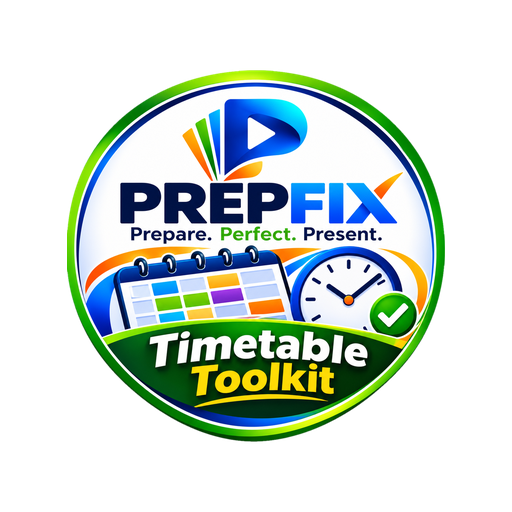
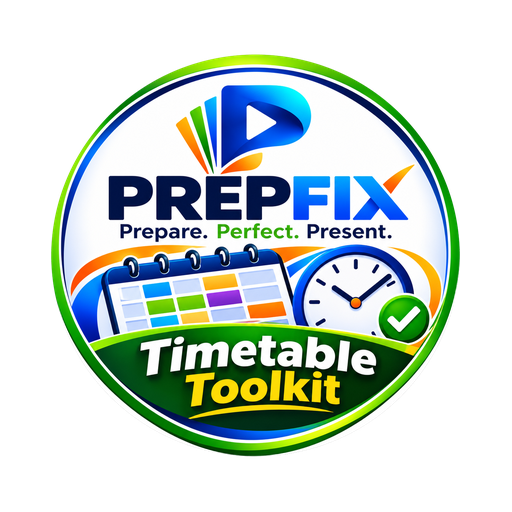
Update teachers' app

Changed region(s): [[0.0938, 0.0938, 0.9062, 0.9062]]

diff --git a/app.js b/app.js
@@ -4,7 +4,7 @@
 
   const CFG = self.IRERI_CONFIG || {};
   // Built in. The same on every school's app and not taken from any setting.
-  const LOCKED_BRAND = 'DESIGNED BY CYRUS IRERI';   // (older copies said: CREATED BY CYRUS IRERI)
+  const LOCKED_BRAND = 'DEVELOPED BY CYRUS IRERI';   // (older copies said: DESIGNED BY CYRUS IRERI / CREATED BY CYRUS IRERI - kept here so older school copies still recognise this app)
   const LOCKED_CONTACT = '0720872582';
   const BRAND_LINE = LOCKED_BRAND + ' ' + LOCKED_CONTACT;
   // Watermark over every timetable on screen and on every saved image. Built in, cannot be switched off.
@@ -27,7 +27,7 @@
   })();
   (function addBrandBar() {                      // frozen footer, always visible
     const add = () => { if (document.getElementById('brandbar')) return; const f = document.createElement('div'); f.id = 'brandbar';
-      f.innerHTML = `<span>${LOCKED_BRAND}</span><button type="button" data-act="contact" aria-label="Contact Cyrus Ireri"><svg viewBox="0 0 24 24" aria-hidden="true"><path d="M6.6 10.8a15.1 15.1 0 0 0 6.6 6.6l2.2-2.2c.3-.3.7-.4 1-.2 1.1.4 2.3.6 3.6.6.6 0 1 .4 1 1V20c0 .6-.4 1-1 1A17 17 0 0 1 3 4c0-.6.4-1 1-1h3.5c.6 0 1 .4 1 1 0 1.3.2 2.5.6 3.6.1.3 0 .7-.2 1l-2.3 2.2Z"/></svg>${LOCKED_CONTACT}</button>`; document.body.appendChild(f); };
+      f.innerHTML = `<span class="devby">${LOCKED_BRAND}</span><button type="button" data-act="contact" aria-label="Contact Cyrus Ireri"><svg viewBox="0 0 24 24" aria-hidden="true"><path d="M6.6 10.8a15.1 15.1 0 0 0 6.6 6.6l2.2-2.2c.3-.3.7-.4 1-.2 1.1.4 2.3.6 3.6.6.6 0 1 .4 1 1V20c0 .6-.4 1-1 1A17 17 0 0 1 3 4c0-.6.4-1 1-1h3.5c.6 0 1 .4 1 1 0 1.3.2 2.5.6 3.6.1.3 0 .7-.2 1l-2.3 2.2Z"/></svg>${LOCKED_CONTACT}</button>`; document.body.appendChild(f); };
     if (document.body) add(); else document.addEventListener('DOMContentLoaded', add);
   })();
   (function addWatermarkStyle() {
@@ -111,8 +111,8 @@ const own = isOwner();
     el.innerHTML = `<div class="splash"><div class="splash-logo"></div><h2>School timetables</h2><p>Loading schools…</p></div>`;
     const j = await fetchSchools();
     const n = j && j.schools ? j.schools.length : 0;
-    el.innerHTML = `<header class="top"><div class="brandrow"><div class="logo" aria-hidden="true"></div><div class="titles"><h1>PREPFIX Timetables</h1><p class="sub">${n} school${n === 1 ? '' : 's'} using this app</p></div></div></header>
-      <main class="page wide"><p class="hint-box">Schools using PREPFIX Timetables. To open your school's timetables, use the link or QR code from your school.</p>
+    el.innerHTML = `<header class="top"><div class="brandrow"><div class="logo" aria-hidden="true"></div><div class="titles"><h1>Timetable Toolkit</h1><p class="sub">${n} school${n === 1 ? '' : 's'} using this app</p></div></div></header>
+      <main class="page wide"><p class="hint-box">Schools using Timetable Toolkit. To open your school's timetables, use the link or QR code from your school.</p>
       <div class="searchbox">${icon('search')}<input id="sq" type="search" autocomplete="off" placeholder="Search for your school…"></div>
       <div id="slist">${schoolsListHTML(j, null, '')}</div>
       <footer class="foot">${esc(BRAND_LINE)}</footer></main>`;
@@ -785,7 +785,7 @@ const own = isOwner();
     const bad = (B.teachers.concat(B.classes)).some(it => (it.grid || []).some(r => r.some(c => c && typeof c === 'object' && c.bad)));
     document.title = (sch.name || 'School') + ' · As printed';
     app.innerHTML = `
-      <header class="top pghead"><div class="brandrow"><button class="iconbtn" data-act="home" aria-label="Back">${icon('back')}</button>
+      <header class="top pghead"><div class="brandrow"><button class="iconbtn" data-act="home" aria-label="Back">${icon('back')}</button><div class="logo" aria-hidden="true"></div>
         <div class="titles"><h1>As printed · A4</h1><p class="sub">${esc(sch.name || '')}${state.data.ttName ? ' · ' + esc(state.data.ttName) : ''} — exactly what the printer gets</p></div></div>
         <nav class="pgtabs">${kinds.map(([k, l, n]) => `<a href="#pages/${k}" class="${k === kind ? 'on' : ''}">${esc(l)} <small>${n}</small></a>`).join('')}
           ${kind === 'classes' && IDX.grades.length > 1 ? `<span class="pgjump">Go to:${IDX.grades.map(g => `<button type="button" data-pgjump="${B.classes.findIndex(c => gradeOf(c.name) === g)}">${esc(g)}</button>`).join('')}</span>` : ''}
@@ -1029,9 +1029,9 @@ const own = isOwner();
           'BEGIN:VALARM', 'ACTION:DISPLAY', `DESCRIPTION:${escI('Lesson in ' + REMIND_MIN + ' minutes: ' + L.lines[0])}`, `TRIGGER:-PT${REMIND_MIN}M`, 'END:VALARM', 'END:VEVENT'].filter(Boolean).join('\r\n'));
       });
     });
-    const ics = ['BEGIN:VCALENDAR', 'VERSION:2.0', 'PRODID:-//PREPFIX//Timetables//EN', 'CALSCALE:GREGORIAN', 'METHOD:PUBLISH', `X-WR-CALNAME:PREPFIX · ${escI(teacherLabel(me))}`, ...ev, 'END:VCALENDAR'].join('\r\n');
+    const ics = ['BEGIN:VCALENDAR', 'VERSION:2.0', 'PRODID:-//PREPFIX//Timetables//EN', 'CALSCALE:GREGORIAN', 'METHOD:PUBLISH', `X-WR-CALNAME:Timetable Toolkit · ${escI(teacherLabel(me))}`, ...ev, 'END:VCALENDAR'].join('\r\n');
     const blob = new Blob([ics], { type: 'text/calendar' }), a = document.createElement('a');
-    a.href = URL.createObjectURL(blob); a.download = `PREPFIX reminders - ${teacherLabel(me).replace(/[\\/:*?"<>|]+/g, ' ').replace(/[.\s]+$/, '')}.ics`;
+    a.href = URL.createObjectURL(blob); a.download = `Timetable Toolkit reminders - ${teacherLabel(me).replace(/[\\/:*?"<>|]+/g, ' ').replace(/[.\s]+$/, '')}.ics`;
     document.body.appendChild(a); a.click(); a.remove(); setTimeout(() => URL.revokeObjectURL(a.href), 4000);
     toast(`Calendar file saved — open it to add ${ev.length} weekly lessons with a ${REMIND_MIN}-minute alarm`, 5000);
   }
@@ -1091,7 +1091,7 @@ const own = isOwner();
     const L = instLines();
     if (!L.length) return '';
     const og = B && B.origin && B.origin.text ? `<p class="origin o-${esc(B.origin.path || 'A')}">${esc(B.origin.text)}</p>` : '';
-    return `<div class="inst ${extra}${owner ? ' has-owner' : ''}"><img class="inst-logo" src="/brand/prepfix-logo-600.png" alt="PREPFIX Timetable Toolkit"><b>${esc(L[0])}</b>${L.slice(1).map(x => `<span>${esc(x)}</span>`).join('')}${owner ? `<div class="owner"><i>${esc(owner.tag)}</i><strong>${esc(owner.name)}</strong></div>` : ''}${og}</div>`;
+    return `<div class="inst ${extra}${owner ? ' has-owner' : ''}"><img class="inst-logo" src="/brand/prepfix-logo-600.png" alt="Timetable Toolkit"><b>${esc(L[0])}</b>${L.slice(1).map(x => `<span>${esc(x)}</span>`).join('')}${owner ? `<div class="owner"><i>${esc(owner.tag)}</i><strong>${esc(owner.name)}</strong></div>` : ''}${og}</div>`;
   }
   function ttSwitcher() {
     const list = state.tts || [];
@@ -1135,7 +1135,7 @@ const own = isOwner();
   }
   async function applyAppUpdate() {
     const box = document.createElement('div'); box.className = 'alarm-bg';
-    box.innerHTML = `<div class="alarm"><div class="abell">⬆</div><h3>Updating PREPFIX…</h3><p class="awhen">A moment, please</p></div>`;
+    box.innerHTML = `<div class="alarm"><div class="abell">⬆</div><h3>Updating Timetable Toolkit…</h3><p class="awhen">A moment, please</p></div>`;
     document.body.appendChild(box);
     try {
       const files = ['/app.js', '/app.css', '/config.js', '/sw.js', '/qrcode.js', location.pathname];
@@ -1163,12 +1163,12 @@ const own = isOwner();
     if (!state.online) { toast('No internet — try again when you are online'); return; }
     toast('Checking for updates…', 1500);
     if (await updateReady()) {
-      openSheet(`<div class="grab"></div><h3>⬆ PREPFIX has been improved</h3><p>A newer version of the app is ready with the latest improvements. Nothing changes until you tap <b>Update now</b>.</p>
+      openSheet(`<div class="grab"></div><h3>⬆ Timetable Toolkit has been improved</h3><p>A newer version of the app is ready with the latest improvements. Nothing changes until you tap <b>Update now</b>.</p>
         <button class="btn wide" data-act="appUpdate">Update now</button><button class="btn ghost wide" data-act="closeSheet">Later</button>`);
       return;
     }
     await sync('manual');
-    if (state.online) toast('✓ You have the newest PREPFIX and the latest timetables');
+    if (state.online) toast('✓ You have the newest Timetable Toolkit and the latest timetables');
   }
   async function autoCheckApp() {                       // quietly, at most every 30 minutes
     const last = +(store.get('appChk') || 0); if (Date.now() - last < 30 * 60000 || !state.online) return;
@@ -1179,7 +1179,7 @@ const own = isOwner();
   function renderBanners() {
     const box = $('#banners'); if (!box || !state.data) return;
     const out = [];
-    if (state.appNew) out.push(`<div class="banner new"><div><strong>⬆ PREPFIX has been improved</strong><span>Tap Update to get the newest version — your timetables stay as they are.</span></div><div class="banner-actions"><button class="btn small" data-act="appUpdate">Update</button></div></div>`);
+    if (state.appNew) out.push(`<div class="banner new"><div><strong>⬆ Timetable Toolkit has been improved</strong><span>Tap Update to get the newest version — your timetables stay as they are.</span></div><div class="banner-actions"><button class="btn small" data-act="appUpdate">Update</button></div></div>`);
     const fresh = (state.tts && state.tts.length ? state.tts : [{ id: state.data.tt, version: state.data.version, name: state.data.ttName, updated: B.published, note: state.data.school?.note }]).filter(isNewTT);
     if (fresh.length) {
       const items = fresh.map(t => `<b>${esc(t.name || 'Timetable')}</b> · ${esc(fmtDate(t.updated))}${t.note ? ' — ' + esc(t.note) : ''}`).join('<br>');
@@ -2155,7 +2155,7 @@ const own = isOwner();
     ctx.fillStyle = '#fff'; ctx.font = '800 14px Poppins, Arial'; ctx.textAlign = 'center';
     ctx.fillText(`${LOCKED_BRAND} ${LOCKED_CONTACT}  ·  ${WATERMARK}`, W / 2, fy + 20);
     ctx.textAlign = 'right'; ctx.font = '600 10.5px Poppins, Arial'; ctx.fillStyle = '#9AA8C2';
-    ctx.fillText(`PREPFIX · ${new Date().toLocaleString('en-GB')}`, W - pad - 8, fy + 20); ctx.textAlign = 'left';
+    ctx.fillText(`Timetable Toolkit · ${new Date().toLocaleString('en-GB')}`, W - pad - 8, fy + 20); ctx.textAlign = 'left';
     return cv;
   }
   // Minimal PDF writer: one A4 landscape page per picture
@@ -2177,7 +2177,7 @@ const own = isOwner();
       obj(C, () => add(`<< /Length ${content.length} >>\nstream\n${content}\nendstream`));
     });
     const INFO = 3 + N * 3;
-    obj(INFO, () => add(`<< /Title ${pdfStr(titleText)} /Author (DESIGNED BY CYRUS IRERI 0720872582) /Creator (PREPFIX Timetables) /Producer (PREPFIX) >>`));
+    obj(INFO, () => add(`<< /Title ${pdfStr(titleText)} /Author (DEVELOPED BY CYRUS IRERI 0720872582) /Creator (Timetable Toolkit) /Producer (Timetable Toolkit) >>`));
     const xref = len, total = INFO + 1;
     let x = `xref\n0 ${total}\n0000000000 65535 f \n`;
     for (let n = 1; n < total; n++) x += String(offs[n]).padStart(10, '0') + ' 00000 n \n';
@@ -2287,7 +2287,7 @@ const own = isOwner();
   function closeSheet() { $$('.sheet-bg').forEach(n => n.remove()); }
   function openMenu() {
     openSheet(`<div class="grab"></div>
-      <button class="mrow" data-act="refresh">${icon('refresh')}<span>Check for updates<small>New timetables and PREPFIX improvements · ${state.lastSync ? 'Last checked ' + ago(state.lastSync) : ''}</small></span></button>
+      <button class="mrow" data-act="refresh">${icon('refresh')}<span>Check for updates<small>New timetables and Timetable Toolkit improvements · ${state.lastSync ? 'Last checked ' + ago(state.lastSync) : ''}</small></span></button>
       <button class="mrow" data-act="share">${icon('share')}<span>Share with colleagues<small>QR code, WhatsApp or copy link</small></span></button>
       ${!isStandalone() ? `<button class="mrow" data-act="getapp">${icon('install')}<span>Get the app<small>Android · iPhone · Computer</small></span></button>` : ''}
       <button class="mrow" data-go="schools">${icon('classes')}<span>Schools using this app<small>See the other schools on Timetables</small></span></button>
@@ -2305,9 +2305,9 @@ const own = isOwner();
   async function qrSvg(text) { try { await loadQR(); const qr = self.qrcode(0, 'M'); qr.addData(text); qr.make(); return qr.createSvgTag(6, 2); } catch { return ''; } }
   async function openShare() {
     const link = linkFor(), name = state.data?.school?.name || 'our school';
-    const msg = `PREPFIX · ${name} timetables — open on your phone, it updates automatically: ${link}`;
+    const msg = `Timetable Toolkit · ${name} timetables — open on your phone, it updates automatically: ${link}`;
     openSheet(`<div class="grab"></div><h3>Share with colleagues</h3><div class="qr" id="qrBox"><span class="muted">Loading QR code…</span></div>
-      <p class="linktext"><a href="${esc(link)}" target="_blank" rel="noopener">PREPFIX · ${esc(name)}</a></p>
+      <p class="linktext"><a href="${esc(link)}" target="_blank" rel="noopener">Timetable Toolkit · ${esc(name)}</a></p>
       <div class="sharebtns"><a class="btn" href="https://wa.me/?text=${encodeURIComponent(msg)}" target="_blank" rel="noopener">WhatsApp</a>
       <button class="btn ghost" data-act="copy">Copy link</button>${navigator.share ? '<button class="btn ghost" data-act="nativeShare">More…</button>' : ''}</div>
       <a class="txt-btn center" href="${esc(link)}?poster=1" target="_blank" rel="noopener">${icon('print')} Printable poster for the staffroom</a>
@@ -2341,14 +2341,14 @@ const own = isOwner();
       <button class="btn ghost wide" data-act="closeSheet">Close</button>`);
   }
   function openAbout() {
-    openSheet(`<div class="grab"></div><img class="about-logo" src="/brand/prepfix-logo-600.png" alt="PREPFIX Timetable Toolkit — Prepare. Perfect. Present."><h3>PREPFIX Timetable Toolkit</h3><p>${esc(state.data?.school?.name || '')} timetables. This app shows the latest version published by the school and updates itself when you open it, and keeps a copy for offline use.</p>
+    openSheet(`<div class="grab"></div><img class="about-logo" src="/brand/prepfix-logo-600.png" alt="Timetable Toolkit — Prepare. Perfect. Present."><h3>Timetable Toolkit</h3><p>${esc(state.data?.school?.name || '')} timetables. This app shows the latest version published by the school and updates itself when you open it, and keeps a copy for offline use.</p>
       <p class="muted">${esc(state.data?.school?.institution || '')}<br>${esc(LOCKED_BRAND)}<br>${esc(LOCKED_CONTACT)}<br>App version ${esc(CFG.build || '')}</p>
       <button class="btn ghost wide" data-act="closeSheet">Close</button>`);
   }
   async function renderPoster() {
     const link = linkFor(), name = state.data?.school?.name || '';
     document.body.classList.add('poster-mode');
-    app.innerHTML = `<div class="poster"><img class="plogo" src="/brand/prepfix-logo-600.png" alt="PREPFIX Timetable Toolkit — Prepare. Perfect. Present."><div class="ptop"><div class="logo big"></div><div><h1>${esc(name || 'School')} Timetables</h1><p>On your phone · Always up to date · Works offline</p></div></div>
+    app.innerHTML = `<div class="poster"><img class="plogo" src="/brand/prepfix-logo-600.png" alt="Timetable Toolkit — Prepare. Perfect. Present."><div class="ptop"><div class="logo big"></div><div><h1>${esc(name || 'School')} Timetables</h1><p>On your phone · Always up to date · Works offline</p></div></div>
       <div class="pmain"><div class="pqr" id="pqr"></div><ol>
         <li><b>Scan</b> this QR code with your phone camera.</li>
         <li><b>Get the app</b> — Android (Chrome): tap <b>Install</b>. iPhone (Safari): Share ⬆ → <b>Add to Home Screen</b>. Computer (Chrome/Edge): click <b>Install</b> in the address bar.</li>
@@ -2518,7 +2518,7 @@ const own = isOwner();
   });
   setInterval(() => { if (document.visibilityState === 'visible' && state.data && route().name === 'home') { const c = $('.now-card'); if (c) c.outerHTML = nowCard(); } }, 60000);
   setInterval(checkReminders, 15000);
-  try { if (sessionStorage.getItem('prepfix:updated')) { sessionStorage.removeItem('prepfix:updated'); setTimeout(() => toast('✓ PREPFIX updated to the newest version', 3500), 2200); } } catch { }
+  try { if (sessionStorage.getItem('prepfix:updated')) { sessionStorage.removeItem('prepfix:updated'); setTimeout(() => toast('✓ Timetable Toolkit updated to the newest version', 3500), 2200); } } catch { }
   if (!CFG.preview) {
     setTimeout(() => autoCheckApp(), 4000);
     document.addEventListener('visibilitychange', () => { if (document.visibilityState === 'visible') autoCheckApp(); });
@@ -2535,7 +2535,7 @@ const own = isOwner();
     const strip = document.createElement('div');
     strip.id = 'pvstrip';
     if (CFG.desktop) document.documentElement.classList.add('is-desktop');
-    strip.innerHTML = `${CFG.desktop ? '<b>PREPFIX TIMETABLE TOOLKIT</b><span>Desktop · on this computer</span>' : '<b>PREVIEW</b><span>Not published yet</span>'}
+    strip.innerHTML = `${CFG.desktop ? '<b>TIMETABLE TOOLKIT</b><span>Desktop · on this computer</span>' : '<b>PREVIEW</b><span>Not published yet</span>'}
       <button type="button" class="pvnav" data-act="pvback">← Back</button><button type="button" class="pvnav" data-act="pvhome">⌂ Home</button>
       <a href="#pages/teachers" class="pvpg">📄 As printed</a><a href="#list/teachers">Teachers</a><a href="#list/classes">Classes</a><a href="#master">Master</a>
       <button type="button" id="pvfs"></button><button type="button" id="pvclose">✕ Close preview</button>`;

diff --git a/index.html b/index.html
@@ -3,24 +3,24 @@
 <head>
 <meta charset="utf-8">
 <meta name="viewport" content="width=device-width, initial-scale=1, viewport-fit=cover">
-<title>PREPFIX Timetable Toolkit</title>
+<title>Timetable Toolkit</title>
 <meta name="description" content="Teachers, classes, labs and master timetables — always the latest version.">
 <meta name="theme-color" content="#12284C">
-<style>#brandsplash{position:fixed;inset:0;z-index:9999;background:#fff;display:flex;flex-direction:column;align-items:center;justify-content:center;gap:18px;transition:opacity .45s ease}#brandsplash img{width:min(78vw,520px);height:auto}#brandsplash p{margin:0;font:600 13px/1.4 Poppins,"Segoe UI",Arial,sans-serif;letter-spacing:.18em;color:#12284C;text-transform:uppercase}#brandsplash small{position:absolute;bottom:calc(22px + env(safe-area-inset-bottom,0px));font:600 11px/1 Poppins,"Segoe UI",Arial,sans-serif;letter-spacing:.12em;color:#667085}#brandsplash i{width:42px;height:4px;border-radius:4px;background:linear-gradient(90deg,#0B4FE0,#19B5F5,#F7941D);animation:bsp 1.2s ease-in-out infinite}@keyframes bsp{0%,100%{transform:scaleX(.3)}50%{transform:scaleX(1)}}#brandsplash.out{opacity:0;pointer-events:none}</style>
+<style>#brandsplash{position:fixed;inset:0;z-index:9999;background:#fff;display:flex;flex-direction:column;align-items:center;justify-content:center;gap:18px;transition:opacity .45s ease}#brandsplash img{width:min(66vw,340px);height:auto;border-radius:50%;animation:bspEmblem 2.8s ease-in-out infinite}@keyframes bspEmblem{0%,100%{filter:drop-shadow(0 0 6px rgba(25,181,245,.45)) drop-shadow(0 0 14px rgba(60,220,120,.3))}50%{filter:drop-shadow(0 0 12px rgba(25,181,245,.95)) drop-shadow(0 0 28px rgba(60,220,120,.65)) drop-shadow(0 0 44px rgba(25,181,245,.4))}}@media (prefers-reduced-motion:reduce){#brandsplash img,#brandsplash small{animation:none}}#brandsplash p{margin:0;font:600 13px/1.4 Poppins,"Segoe UI",Arial,sans-serif;letter-spacing:.18em;color:#12284C;text-transform:uppercase}#brandsplash small{position:absolute;bottom:calc(22px + env(safe-area-inset-bottom,0px));font:700 12px/1 Poppins,"Segoe UI",Arial,sans-serif;letter-spacing:.14em;color:#12284C;animation:bspGlow 2.8s ease-in-out infinite;text-shadow:0 0 5px rgba(25,181,245,.55),0 0 10px rgba(30,144,255,.3)}@keyframes bspGlow{0%,100%{text-shadow:0 0 3px rgba(25,181,245,.4),0 0 7px rgba(30,144,255,.25)}50%{text-shadow:0 0 6px rgba(25,181,245,.95),0 0 14px rgba(30,144,255,.7),0 0 24px rgba(60,220,120,.45)}}#brandsplash i{width:42px;height:4px;border-radius:4px;background:linear-gradient(90deg,#0B4FE0,#19B5F5,#F7941D);animation:bsp 1.2s ease-in-out infinite}@keyframes bsp{0%,100%{transform:scaleX(.3)}50%{transform:scaleX(1)}}#brandsplash.out{opacity:0;pointer-events:none}</style>
 <link rel="manifest" href="manifest.webmanifest">
 <link rel="icon" type="image/png" sizes="192x192" href="/icons/icon-192.png">
 <link rel="apple-touch-icon" href="/icons/apple-touch-icon.png">
 <meta name="apple-mobile-web-app-capable" content="yes">
 <meta name="mobile-web-app-capable" content="yes">
 <meta name="apple-mobile-web-app-status-bar-style" content="black-translucent">
-<meta name="apple-mobile-web-app-title" content="PREPFIX">
+<meta name="apple-mobile-web-app-title" content="Timetable Toolkit">
 <link rel="preconnect" href="https://fonts.googleapis.com">
 <link rel="preconnect" href="https://fonts.gstatic.com" crossorigin>
 <link href="https://fonts.googleapis.com/css2?family=Poppins:wght@400;500;600;700&display=swap" rel="stylesheet">
 <link rel="stylesheet" href="/app.css">
 </head>
 <body>
-<div id="brandsplash" aria-hidden="true"><img src="/brand/prepfix-logo-600.png" alt="PREPFIX Timetable Toolkit — Prepare. Perfect. Present."><i></i><small>DESIGNED BY CYRUS IRERI 0720872582</small></div>
+<div id="brandsplash" aria-hidden="true"><img src="/brand/prepfix-badge-520.png" alt="Timetable Toolkit — Prepare. Perfect. Present."><i></i><small>DEVELOPED BY CYRUS IRERI</small></div>
 <div id="app">
   <div class="splash">
     <div class="splash-logo"></div>

diff --git a/s/st-barbara-sen-school-e487/index.html b/s/st-barbara-sen-school-e487/index.html
@@ -3,24 +3,24 @@
 <head>
 <meta charset="utf-8">
 <meta name="viewport" content="width=device-width, initial-scale=1, viewport-fit=cover">
-<title>PREPFIX Timetable Toolkit</title>
+<title>Timetable Toolkit</title>
 <meta name="description" content="Teachers, classes, labs and master timetables — always the latest version.">
 <meta name="theme-color" content="#12284C">
-<style>#brandsplash{position:fixed;inset:0;z-index:9999;background:#fff;display:flex;flex-direction:column;align-items:center;justify-content:center;gap:18px;transition:opacity .45s ease}#brandsplash img{width:min(78vw,520px);height:auto}#brandsplash p{margin:0;font:600 13px/1.4 Poppins,"Segoe UI",Arial,sans-serif;letter-spacing:.18em;color:#12284C;text-transform:uppercase}#brandsplash small{position:absolute;bottom:calc(22px + env(safe-area-inset-bottom,0px));font:600 11px/1 Poppins,"Segoe UI",Arial,sans-serif;letter-spacing:.12em;color:#667085}#brandsplash i{width:42px;height:4px;border-radius:4px;background:linear-gradient(90deg,#0B4FE0,#19B5F5,#F7941D);animation:bsp 1.2s ease-in-out infinite}@keyframes bsp{0%,100%{transform:scaleX(.3)}50%{transform:scaleX(1)}}#brandsplash.out{opacity:0;pointer-events:none}</style>
+<style>#brandsplash{position:fixed;inset:0;z-index:9999;background:#fff;display:flex;flex-direction:column;align-items:center;justify-content:center;gap:18px;transition:opacity .45s ease}#brandsplash img{width:min(66vw,340px);height:auto;border-radius:50%;animation:bspEmblem 2.8s ease-in-out infinite}@keyframes bspEmblem{0%,100%{filter:drop-shadow(0 0 6px rgba(25,181,245,.45)) drop-shadow(0 0 14px rgba(60,220,120,.3))}50%{filter:drop-shadow(0 0 12px rgba(25,181,245,.95)) drop-shadow(0 0 28px rgba(60,220,120,.65)) drop-shadow(0 0 44px rgba(25,181,245,.4))}}@media (prefers-reduced-motion:reduce){#brandsplash img,#brandsplash small{animation:none}}#brandsplash p{margin:0;font:600 13px/1.4 Poppins,"Segoe UI",Arial,sans-serif;letter-spacing:.18em;color:#12284C;text-transform:uppercase}#brandsplash small{position:absolute;bottom:calc(22px + env(safe-area-inset-bottom,0px));font:700 12px/1 Poppins,"Segoe UI",Arial,sans-serif;letter-spacing:.14em;color:#12284C;animation:bspGlow 2.8s ease-in-out infinite;text-shadow:0 0 5px rgba(25,181,245,.55),0 0 10px rgba(30,144,255,.3)}@keyframes bspGlow{0%,100%{text-shadow:0 0 3px rgba(25,181,245,.4),0 0 7px rgba(30,144,255,.25)}50%{text-shadow:0 0 6px rgba(25,181,245,.95),0 0 14px rgba(30,144,255,.7),0 0 24px rgba(60,220,120,.45)}}#brandsplash i{width:42px;height:4px;border-radius:4px;background:linear-gradient(90deg,#0B4FE0,#19B5F5,#F7941D);animation:bsp 1.2s ease-in-out infinite}@keyframes bsp{0%,100%{transform:scaleX(.3)}50%{transform:scaleX(1)}}#brandsplash.out{opacity:0;pointer-events:none}</style>
 <link rel="manifest" href="manifest.webmanifest">
 <link rel="icon" type="image/png" sizes="192x192" href="/icons/icon-192.png">
 <link rel="apple-touch-icon" href="/icons/apple-touch-icon.png">
 <meta name="apple-mobile-web-app-capable" content="yes">
 <meta name="mobile-web-app-capable" content="yes">
 <meta name="apple-mobile-web-app-status-bar-style" content="black-translucent">
-<meta name="apple-mobile-web-app-title" content="PREPFIX">
+<meta name="apple-mobile-web-app-title" content="Timetable Toolkit">
 <link rel="preconnect" href="https://fonts.googleapis.com">
 <link rel="preconnect" href="https://fonts.gstatic.com" crossorigin>
 <link href="https://fonts.googleapis.com/css2?family=Poppins:wght@400;500;600;700&display=swap" rel="stylesheet">
 <link rel="stylesheet" href="/app.css">
 </head>
 <body>
-<div id="brandsplash" aria-hidden="true"><img src="/brand/prepfix-logo-600.png" alt="PREPFIX Timetable Toolkit — Prepare. Perfect. Present."><i></i><small>DESIGNED BY CYRUS IRERI 0720872582</small></div>
+<div id="brandsplash" aria-hidden="true"><img src="/brand/prepfix-badge-520.png" alt="Timetable Toolkit — Prepare. Perfect. Present."><i></i><small>DEVELOPED BY CYRUS IRERI</small></div>
 <div id="app">
   <div class="splash">
     <div class="splash-logo"></div>

diff --git a/app.css b/app.css
@@ -473,7 +473,7 @@ table.mx td small{font-size:10.5px;color:#4A4A4A}
 
 .list li.mine .row{background:#FFF7DD;border-color:var(--gold);box-shadow:inset 4px 0 0 var(--gold)}
 .now-me .nx{display:block;margin-top:4px}.now-me .nx i{display:inline-grid;place-items:center;width:18px;height:18px;border-radius:50%;background:var(--gold);color:var(--navy);font-style:normal;font-size:11px;font-weight:700;margin-right:6px}.now-me .nx + .nx{border-top:1px dashed rgba(255,255,255,.25);padding-top:4px}
-/* Frozen footer: DESIGNED BY CYRUS IRERI 0720872582 on every screen */
+/* Frozen footer: DEVELOPED BY CYRUS IRERI (glowing) on every screen */
 :root{--brandh:28px}
 #brandbar{position:fixed;left:0;right:0;bottom:0;z-index:45;height:calc(var(--brandh) + var(--safe-b));padding-bottom:var(--safe-b);display:flex;align-items:center;justify-content:center;gap:10px;background:var(--navy);color:#fff;font:600 11.5px/1 Poppins,"Segoe UI",Arial,sans-serif;letter-spacing:.08em;border-top:2px solid var(--gold);pointer-events:none;white-space:nowrap}
 #brandbar b{color:var(--gold-2);font-weight:700;letter-spacing:.04em}
@@ -1223,3 +1223,22 @@ body:has(.pages.h){overflow:hidden}
 .joinbox input{font:600 20px/1.2 Poppins,"Segoe UI",Arial,sans-serif;padding:12px 14px;border:2px solid var(--navy,#12284C);border-radius:12px;text-align:center;letter-spacing:.04em}
 .joinbox .btn{font-size:16px;padding:12px}
 .joinmsg{min-height:1.4em;font-weight:700;color:#B3261E}
+
+/* ===== Timetable Toolkit emblem (top-left of every header) and the glowing credit footer ===== */
+.logo,.splash-logo{
+  width:48px;height:48px;border-radius:50%!important;border:0!important;box-shadow:none!important;
+  background:url('/brand/prepfix-mark.png') center/contain no-repeat!important;flex:none;
+  filter:drop-shadow(0 0 4px rgba(25,181,245,.65)) drop-shadow(0 0 9px rgba(60,220,120,.4));
+  animation:emblemGlow 2.8s ease-in-out infinite}
+.logo.big{width:78px;height:78px;border-radius:50%!important}
+.splash-logo{width:84px;height:84px}
+.pghead .brandrow .logo{width:40px;height:40px}
+@keyframes emblemGlow{
+  0%,100%{filter:drop-shadow(0 0 3px rgba(25,181,245,.55)) drop-shadow(0 0 6px rgba(60,220,120,.35))}
+  50%{filter:drop-shadow(0 0 7px rgba(25,181,245,1)) drop-shadow(0 0 15px rgba(60,220,120,.75)) drop-shadow(0 0 24px rgba(25,181,245,.45))}}
+#brandbar .devby{color:#fff;font-weight:700;letter-spacing:.1em;animation:devGlow 2.8s ease-in-out infinite;
+  text-shadow:0 0 4px rgba(255,205,70,.7),0 0 10px rgba(255,190,40,.45)}
+@keyframes devGlow{
+  0%,100%{text-shadow:0 0 3px rgba(255,205,70,.55),0 0 8px rgba(255,190,40,.35)}
+  50%{text-shadow:0 0 5px #FFE08A,0 0 12px #FFC83D,0 0 22px rgba(255,170,0,.85),0 0 34px rgba(255,170,0,.5)}}
+@media (prefers-reduced-motion:reduce){.logo,.splash-logo,#brandbar .devby{animation:none}}

diff --git a/sw.js b/sw.js
@@ -3,7 +3,7 @@
    taps "Update" in the app. Keep the SHELL name below unchanged, so a new sw.js never swaps the app files by itself. */
 const SHELL = 'ireri-shell-v45';
 const SHELL_FILES = ['/app.css', '/app.js', '/config.js', '/qrcode.js',
-  '/icons/icon-192.png', '/icons/icon-512.png', '/brand/prepfix-logo-600.png', '/brand/prepfix-mark.png'];
+  '/icons/icon-192.png', '/icons/icon-512.png', '/brand/prepfix-logo-600.png', '/brand/prepfix-mark.png', '/brand/prepfix-badge-520.png'];
 const APP_FILE = /\/(app\.js|app\.css|qrcode\.js|config\.js)$/;
 
 self.addEventListener('install', event => {
@@ -96,7 +96,7 @@ self.addEventListener('push', event => {
     const fmt = mm => { const h = Math.floor(mm / 60); return `${h > 12 ? h - 12 : h}:${String(mm % 60).padStart(2, '0')}`; };
     const mins = L ? L.start - m : (plan && plan.min) || 10;
     const title = L ? `⏰ Lesson in ${mins} minutes — ${L.label} at ${fmt(L.start)}` : '⏰ Your next lesson starts soon';
-    const body = L ? [L.title, L.body].filter(Boolean).join(' · ') : 'Open PREPFIX Timetables to see it.';
+    const body = L ? [L.title, L.body].filter(Boolean).join(' · ') : 'Open Timetable Toolkit to see it.';
     await self.registration.showNotification(title, {
       body, icon: '/icons/icon-192.png', badge: '/icons/badge-96.png', tag: L ? `lesson-${L.wd}-${L.start}` : 'lesson-next',
       renotify: true, requireInteraction: true, vibrate: [400, 150, 400, 150, 800], data: { url: (plan && plan.url) || '/' },

diff --git a/config.js b/config.js
@@ -1,1 +1,1 @@
-self.IRERI_CONFIG = {"brand": "DESIGNED BY CYRUS IRERI", "contact": "0720872582", "build": "cc8d01b8", "directory": "https://cbcrevisionhub.co.ke/schools.json", "push": "https://prepfix-reminders.irericyrus004.workers.dev"};
+self.IRERI_CONFIG = {"brand": "DEVELOPED BY CYRUS IRERI", "contact": "0720872582", "build": "1941a94c", "directory": "https://cbcrevisionhub.co.ke/schools.json", "push": "https://prepfix-reminders.irericyrus004.workers.dev"};
